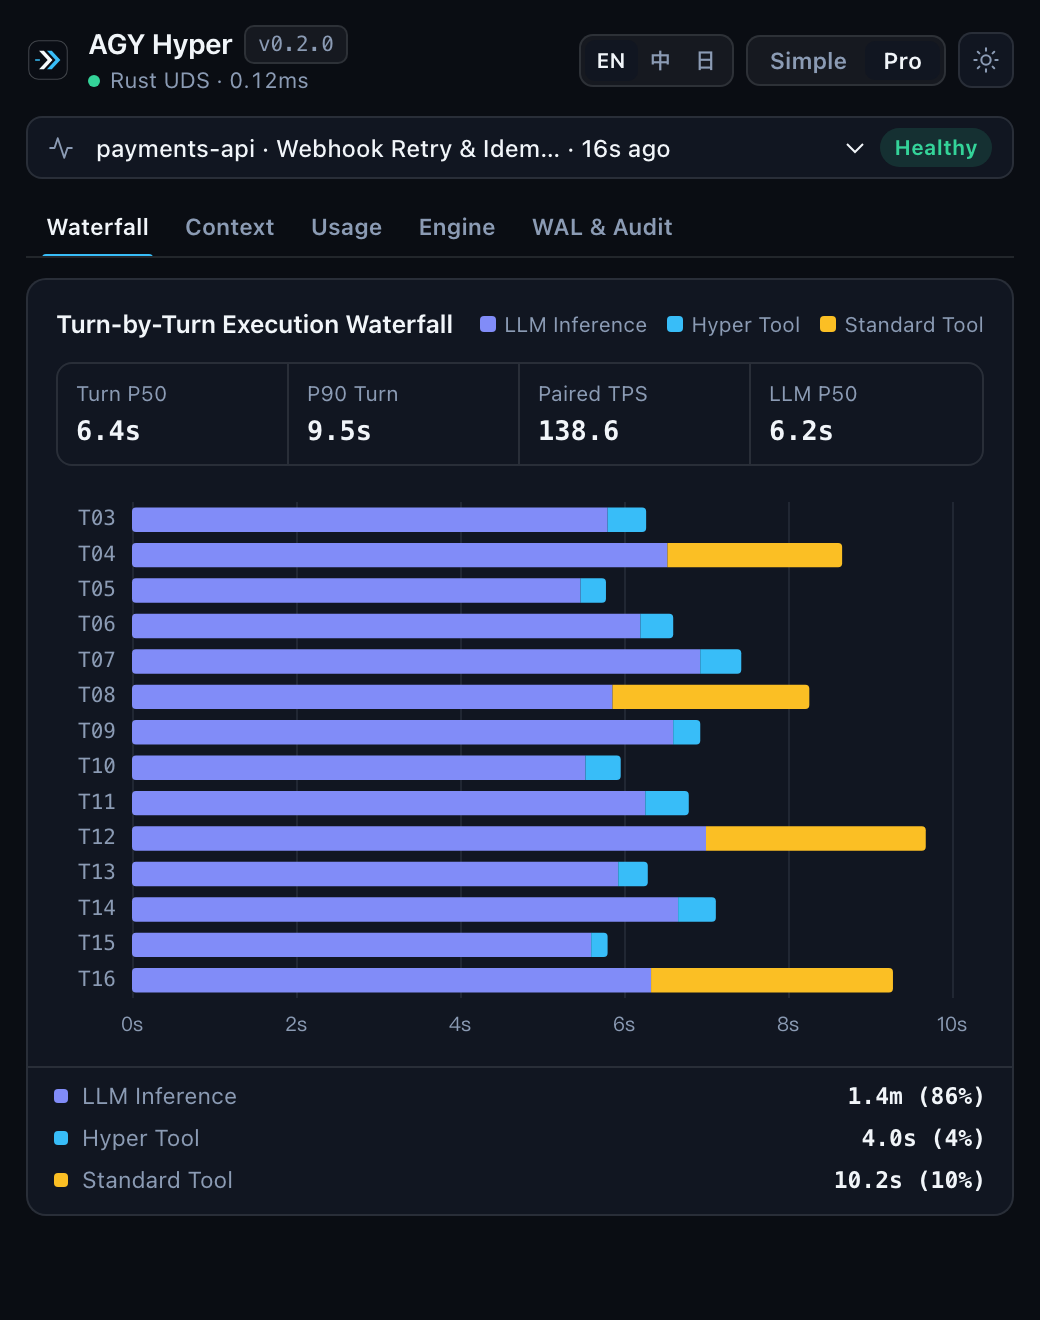
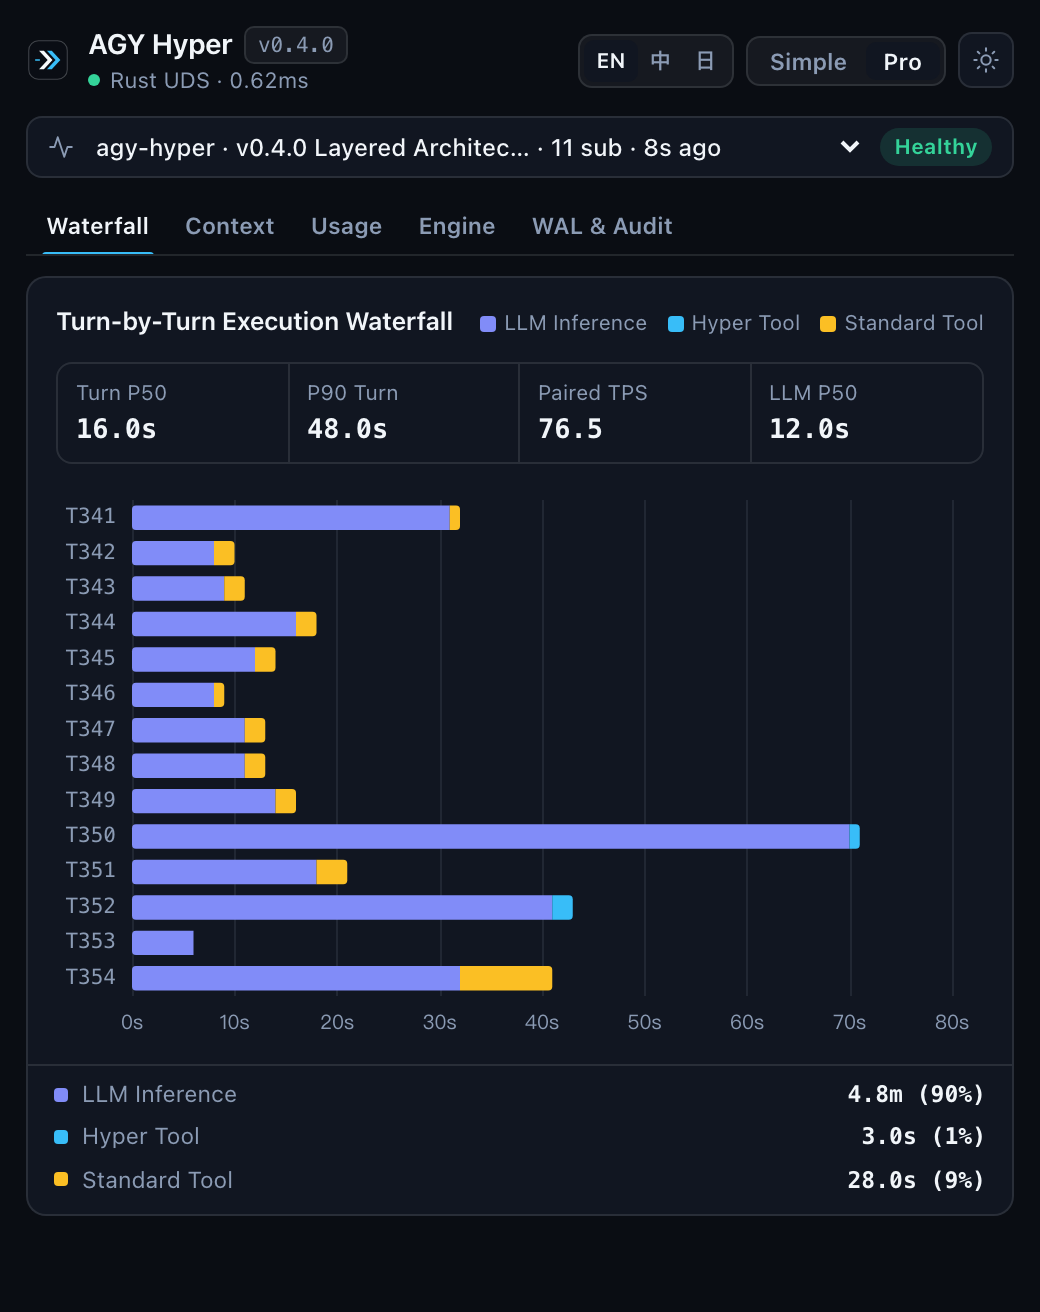
release: v0.4.0 version bump, refreshed diagrams, screenshots, and bilingual docs

diff --git a/README.zh-CN.md b/README.zh-CN.md
@@ -52,12 +52,12 @@
 不需要装 Rust，不需要装 `ripgrep` 或 Python，也不依赖本地 `git` 命令行。安装脚本强制通过 **SHA-256 校验** 后原子替换，绝不修改你的 `~/.gemini/config/config.json`。
 
 ```bash
-# macOS & Linux
+# macOS & Linux（默认 Balanced 模式；追加 `-s -- --observe` 可开启零侵入纯观测模式）
 curl -fsSL https://raw.githubusercontent.com/BobbyCats/agy-hyper/main/install.sh | bash
 ```
 
 ```powershell
-# Windows (PowerShell)
+# Windows (PowerShell；安装前设 `$env:AGY_HYPER_OBSERVE="1"` 可启零侵入纯观测模式)
 irm https://raw.githubusercontent.com/BobbyCats/agy-hyper/main/install.ps1 | iex
 ```
 
@@ -76,6 +76,7 @@ git clone https://github.com/BobbyCats/agy-hyper.git && cd agy-hyper && ./instal
 
 ```bash
 agy-hyper doctor                  # 检查 Tree-sitter 语法、gix、守护进程延迟与安全边界
+agy-hyper audit --svg audit.svg   # 运行 14 天本机烧钱诊断并导出可分享 SVG 战报卡
 agy-hyper usage --window 7d       # 查看近 24h / 7d / 30d / 90d Token 与多币种等价估值
 agy-hyper bench --cache-ttl       # 查看各模型族实测 Prompt 缓存衰减曲线与 TTL 拐点
 agy-hyper cli-setup               # 输出（或 --apply 写入）Antigravity CLI statusLine 与 title 配置
@@ -84,47 +85,62 @@ agy-hyper ui                      # 在浏览器独立打开 AGY Hyper Deck (127
 
 ---
 
+## 本机烧钱诊断战报卡（`agy-hyper audit`）
+
+运行 `agy-hyper audit --days 14 --svg audit-card.svg`，100% 本地离线扫描你自己的 Antigravity 历史日志（零云端上传），直接揪出各模型真实缓存掉崖时间、未命中输入成本、首次改代码前上下文膨胀与地毯式预读次数，并生成一张可直接分享的矢量 SVG 诊断卡：
+
+<div align="center">
+  <picture>
+    <source media="(prefers-color-scheme: dark)" srcset="./assets/audit-card-dark.svg">
+    <source media="(prefers-color-scheme: light)" srcset="./assets/audit-card-light.svg">
+    <img src="./assets/audit-card-dark.svg" alt="AGY Hyper 本机遥测诊断战报卡" width="100%"/>
+  </picture>
+</div>
+
+---
+
 ## AGY Hyper Deck（Antigravity 原生侧边栏驾驶舱）
 
 通过官方 `SIDECAR_UI_ENTRYPOINT_AUX_PANE` 协议原生嵌入右侧边栏，100% 本地离线内置 **Apache ECharts 6** 与 **i18next**（`English / 简体中文 / 日本語`，零外网 CDN），自动同步宿主明暗主题。
 
-- **简洁模式**面向日常使用：展示上下文水位、单轮 P50、本步与会话累计缓存命中、**子代理树状态条**（高亮运行中红线与静默 `>=90s` 的 `STALLED` 卡死子代理）、**本会话/整树等价估值缎带**（支持一键切货币）、**分模型自适应缓存保鲜条**（实测/默认 TTL 徽章、连续失败熔断预警、`/compact` 与跨模型切换提示）以及 WAL 一键撤回。
-- **极客模式**展开五大深度视图：**耗时瀑布**（LLM / Hyper / 普通工具严格拆分）、**上下文轨迹**（双轴堆叠面积曲线 + **上下文 X-Ray 透视条**，拆分读文件/命令输出/Hyper 工具/思考回复并标注首次改动水位与地毯读次数）、**用量账本**（`24H / 7D / 30D / 90D` 增量统计 + 8 种货币 + 手动 **同步汇率**）、**引擎与缓存**、**回滚与审计**。
+- **分层零侵入架构**：支持先用 **纯观测（Observe）** 模式（只开侧边栏驾驶舱、烧钱诊断与被动 WAL 快照，完全不碰原生工具与 Diff 卡片），或切到 **安全稳健（Safe）**（开启打包读与同步校验，同时保留原生 `edit_file` 行内 Diff），也可以一键解锁 **均衡 / 狂暴** 全量 Rust MCP 加速，并在 **引擎** 页独立开关读/写/校验三个工具层。
+- **简洁模式**面向日常使用：展示上下文水位、单轮 P50、本步与会话累计缓存命中、**子代理树状态条**（高亮运行中红线与静默 `>=90s` 的 `STALLED` 卡死子代理）、**本会话/整树等价估值缎带**（支持一键切货币）、**分模型自适应缓存保鲜条**（实测/默认 TTL 徽章与连续失败熔断预警）、四档分层模式切换，以及 **WAL 行级 Unified Diff 内联审阅 + 一键撤回**。
+- **极客模式**展开五大深度视图：**耗时瀑布**（LLM / Hyper / 普通工具严格拆分）、**上下文轨迹**（双轴堆叠面积曲线 + **上下文 X-Ray 透视条**，拆分读文件/命令输出/Hyper 工具/思考回复并标注首次改动水位与地毯读次数）、**用量账本**（`24H / 7D / 30D / 90D` 增量统计 + 8 种货币 + 手动 **同步汇率** + **本机烧钱诊断与 TTL 断崖** 及一键导出 `.svg` 战报卡）、**引擎与缓存**（AST/打包命中 + 细粒度 MCP 开关）、**回滚与审计**。
 
 <div align="center">
 <table>
   <tr>
     <td align="center" width="50%">
-      <strong>简洁模式 · 子代理树、水位与一键撤回（深色）</strong><br/>
-      <sub>子代理隔离监控 · 自适应实测缓存条 · 整树估值缎带 · WAL 原子撤回</sub><br/><br/>
+      <strong>简洁模式 · 实测 TTL、四档模式与行级 WAL Diff（深色）</strong><br/>
+      <sub>~180s 实测缓存保鲜 · Observe/Safe/Balanced/Hyper · 展开红绿 Diff 与一键撤回</sub><br/><br/>
       <img src="./assets/cockpit-simple-dark.png" alt="AGY Hyper Deck 简洁模式深色" width="100%"/>
     </td>
     <td align="center" width="50%">
-      <strong>简洁模式 · 已压缩态与引擎接管（浅色 · 中文）</strong><br/>
-      <sub>/compact 完成态确认 · Hyper 接管占比 · 原生 i18next 多语言</sub><br/><br/>
+      <strong>简洁模式 · 浅色主题与改动行数标记（浅色）</strong><br/>
+      <sub>自适应宿主浅色主题 · 实测 TTL 徽章 · 原生 i18next 三语切换</sub><br/><br/>
       <img src="./assets/cockpit-simple-light.png" alt="AGY Hyper Deck 简洁模式浅色" width="100%"/>
     </td>
   </tr>
   <tr>
     <td align="center" width="50%">
-      <strong>极客模式 · 24H–90D 多币种用量账本（深色 · 中文）</strong><br/>
-      <sub>本地增量账本 · 8 种货币 · 缓存节省测算 · 手动同步实时汇率</sub><br/><br/>
-      <img src="./assets/cockpit-usage-dark.png" alt="AGY Hyper Deck 用量账本" width="100%"/>
+      <strong>极客模式 · 用量账本、烧钱诊断与模型 TTL 断崖</strong><br/>
+      <sub>多币种本地账本 · 实测断崖胶囊 · 核心发现 · 一键导出 SVG 战报卡</sub><br/><br/>
+      <img src="./assets/cockpit-usage-dark.png" alt="AGY Hyper Deck 用量账本与诊断" width="100%"/>
     </td>
     <td align="center" width="50%">
-      <strong>极客模式 · 逐轮耗时火焰图（深色）</strong><br/>
-      <sub>严格拆分模型推理 / Hyper / 普通工具耗时 · P50 / P90 · 配对 TPS</sub><br/><br/>
-      <img src="./assets/cockpit-pro-dark.png" alt="AGY Hyper Deck 极客瀑布图" width="100%"/>
+      <strong>极客模式 · 双轴上下文曲线与上下文 X-Ray 透视</strong><br/>
+      <sub>命中率双轴轨迹 · 压缩后窗口成分拆解 · 首改水位与地毯读计数</sub><br/><br/>
+      <img src="./assets/cockpit-context-dark.png" alt="AGY Hyper Deck 上下文 X-Ray" width="100%"/>
     </td>
   </tr>
 </table>
 </div>
 
 <details>
-<summary><strong>更多视图：极客模式 · 双轴上下文与缓存命中曲线</strong></summary>
+<summary><strong>更多视图：极客模式 · 逐轮耗时火焰图</strong></summary>
 <br/>
 <div align="center">
-  <img src="./assets/cockpit-context-dark.png" alt="AGY Hyper Deck 上下文曲线" width="520"/>
+  <img src="./assets/cockpit-pro-dark.png" alt="AGY Hyper Deck 极客瀑布图" width="520"/>
 </div>
 </details>
 
@@ -199,14 +215,17 @@ Apple Silicon 实机 Release（LTO 优化）通过 `./bench/run-bench.sh` 实测
 agy-hyper doctor                                # 全链路 Tree-sitter、gix、守护进程与安全体检
 agy-hyper daemon start|stop|status              # 管理本地共享 Rust 守护进程
 agy-hyper ui [--port 47821]                     # 在浏览器独立打开 AGY Hyper Deck
+agy-hyper audit [--days 14] [--sessions 80] [--svg card.svg] [--theme dark|light] [--json]
 agy-hyper usage [--window 24h|7d|30d|90d] [--currency CNY] [--json]
 agy-hyper bench [--sessions 10] [--svg waterfall.svg] [--cache-ttl] [--json]
 agy-hyper statusline [--format compact|rich|json] [--title] [--no-color]
 agy-hyper cli-setup [--apply] [--format compact|rich]  # 打印或显式写入 Antigravity CLI 状态栏与标题配置
 agy-hyper tx list                               # 查看 BLAKE3 WAL 修改账本
+agy-hyper tx diff <tx_id> [--json]              # 查看任意 WAL 事务的行级 Unified Diff
 agy-hyper tx rollback <tx_id> [--force]         # 原子恢复文件到修改前字节状态
 agy-hyper config show                           # 查看当前生效配置
-agy-hyper config profile safe|balanced|hyper    # 切换安全与后台预热策略
+agy-hyper config profile observe|safe|balanced|hyper    # 切换分层观测 / 加速模式
+agy-hyper config toggle enable_mcp_read|enable_mcp_edit|enable_mcp_check true|false
 agy-hyper config currency USD|CNY|JPY|EUR|GBP|HKD|SGD|KRW
 agy-hyper config fx <货币代码> <对美元汇率>       # 自定义本地离线汇率
 ```

diff --git a/README.md b/README.md
@@ -52,12 +52,12 @@ Even if you never touch systems programming, three everyday comparisons tell the
 No Rust toolchain, no `ripgrep`, no Python, no `git` CLI required. Release archives are **SHA-256 verified** before atomic swap and never touch `~/.gemini/config/config.json`.
 
 ```bash
-# macOS & Linux
+# macOS & Linux (default Balanced mode; add `-s -- --observe` for zero-intrusion cockpit only)
 curl -fsSL https://raw.githubusercontent.com/BobbyCats/agy-hyper/main/install.sh | bash
 ```
 
 ```powershell
-# Windows (PowerShell)
+# Windows (PowerShell; set `$env:AGY_HYPER_OBSERVE="1"` before install for Observe-only mode)
 irm https://raw.githubusercontent.com/BobbyCats/agy-hyper/main/install.ps1 | iex
 ```
 
@@ -76,6 +76,7 @@ Switch back to Antigravity and everything activates automatically. You can also 
 
 ```bash
 agy-hyper doctor                  # verify Tree-sitter grammars, gix, daemon RTT & security posture
+agy-hyper audit --svg audit.svg   # run 14d local burn audit & export a shareable SVG diagnostic card
 agy-hyper usage --window 7d       # view 24h / 7d / 30d / 90d tokens & API-equivalent value
 agy-hyper bench --cache-ttl       # inspect empirical per-model prompt-cache TTL decay curves
 agy-hyper cli-setup               # print (or --apply) Antigravity CLI statusLine & title config
@@ -84,47 +85,62 @@ agy-hyper ui                      # launch AGY Hyper Deck standalone at http://1
 
 ---
 
+## Local Burn Audit Card (`agy-hyper audit`)
+
+Run `agy-hyper audit --days 14 --svg audit-card.svg` to audit your own Antigravity transcripts 100% locally (zero cloud uploads). It surfaces empirical per-model cache TTL cliffs, uncached input spend, pre-edit context bloat, blanket-read turns, and an unadjusted local cohort view in a crisp shareable SVG card:
+
+<div align="center">
+  <picture>
+    <source media="(prefers-color-scheme: dark)" srcset="./assets/audit-card-dark.svg">
+    <source media="(prefers-color-scheme: light)" srcset="./assets/audit-card-light.svg">
+    <img src="./assets/audit-card-dark.svg" alt="AGY Hyper Local Telemetry Burn Audit Card" width="100%"/>
+  </picture>
+</div>
+
+---
+
 ## AGY Hyper Deck (Native Sidecar Cockpit)
 
 Docked directly in Antigravity's auxiliary pane via `SIDECAR_UI_ENTRYPOINT_AUX_PANE`, powered 100% offline by **Apache ECharts 6** and **i18next** (`English / 简体中文 / 日本語`, zero CDN). Luminance-synced with your host Light/Dark theme.
 
-- **Simple Mode** keeps daily essentials front and center: context level, Turn P50, step vs. session cache hit rate, linked subagent tree strip (highlighting active redlines and `STALLED` subagents silent `>=90s`), session/tree usage ribbon with quick currency switch, **auto-calibrated per-model cache warmth bar** (empirical vs. default TTL badge, loop-guard alerts, post-`/compact` & cross-model hints), safety profile, and 1-click WAL Undo.
-- **Pro Mode** opens five deep telemetry tabs: **Waterfall** (disjoint LLM vs. Hyper vs. Standard spans), **Context** (dual-axis cached/uncached curve + **Context X-Ray** composition bar with first-edit token load and blanket-read count), **Usage** (`24H / 7D / 30D / 90D` incremental ledger across 8 currencies with manual **Sync FX**), **Engine** (AST/pack cache hits & live switches), and **WAL & Audit**.
+- **Layered Zero-Intrusion Design**: start in **Observe** mode (read-only cockpit + burn audit + passive WAL capture; native tools & diff cards untouched), switch to **Safe** (bundled reads & preset checks while keeping native `edit_file` inline diffs), or unlock **Balanced / Hyper** full Rust MCP acceleration — plus granular per-tool toggles (`MCP Read`, `MCP Edit`, `MCP Check`) under **Engine**.
+- **Simple Mode** keeps daily essentials front and center: context level, Turn P50, step vs. session cache hit rate, linked subagent tree strip (highlighting active redlines and `STALLED` subagents silent `>=90s`), session/tree usage ribbon with quick currency switch, **auto-calibrated per-model cache warmth bar** (empirical vs. default TTL badge & loop-guard alerts), 4-mode layered profile switch, and **inline WAL Unified Diff preview + 1-click Undo**.
+- **Pro Mode** opens five deep telemetry tabs: **Waterfall** (disjoint LLM vs. Hyper vs. Standard spans), **Context** (dual-axis cached/uncached curve + **Context X-Ray** composition bar with first-edit token load and blanket-read count), **Usage** (`24H / 7D / 30D / 90D` incremental ledger across 8 currencies, manual **Sync FX**, plus **Local Burn Audit & TTL Cliffs** with 1-click `.svg` card export), **Engine** (AST/pack cache hits & granular MCP layer switches), and **WAL & Audit**.
 
 <div align="center">
 <table>
   <tr>
     <td align="center" width="50%">
-      <strong>Simple · Subagent Tree, Context &amp; Instant Undo (Dark)</strong><br/>
-      <sub>Linked subagents · Auto-calibrated cache bar · Tree value ribbon · 1-click WAL Undo</sub><br/><br/>
+      <strong>Simple · Empirical TTL, 4-Mode Switch &amp; Inline WAL Diff (Dark)</strong><br/>
+      <sub>~180s empirical TTL · Observe/Safe/Balanced/Hyper · Expandable Unified Diff &amp; 1-click Undo</sub><br/><br/>
       <img src="./assets/cockpit-simple-dark.png" alt="AGY Hyper Deck Simple Dark" width="100%"/>
     </td>
     <td align="center" width="50%">
-      <strong>Simple · Compacted State &amp; Engine Takeover (Light · 中文)</strong><br/>
-      <sub>Post-/compact confirmation · Hyper adoption · Native i18next</sub><br/><br/>
+      <strong>Simple · Clean Light Cockpit &amp; Delta Chips (Light)</strong><br/>
+      <sub>Luminance-synced light theme · Empirical warmth bar · Native i18next</sub><br/><br/>
       <img src="./assets/cockpit-simple-light.png" alt="AGY Hyper Deck Simple Light" width="100%"/>
     </td>
   </tr>
   <tr>
     <td align="center" width="50%">
-      <strong>Pro · 24H–90D Multi-Currency Usage Ledger (中文)</strong><br/>
-      <sub>Incremental local ledger · 8 currencies · Cache savings · Manual Sync FX</sub><br/><br/>
-      <img src="./assets/cockpit-usage-dark.png" alt="AGY Hyper Deck Usage Ledger" width="100%"/>
+      <strong>Pro · Usage Ledger, Burn Audit &amp; Model TTL Cliffs</strong><br/>
+      <sub>Multi-currency ledger · Empirical TTL pills · Top findings · 1-click Export Card (.svg)</sub><br/><br/>
+      <img src="./assets/cockpit-usage-dark.png" alt="AGY Hyper Deck Usage Ledger and Burn Audit" width="100%"/>
     </td>
     <td align="center" width="50%">
-      <strong>Pro · Turn Execution Waterfall (Dark)</strong><br/>
-      <sub>Disjoint LLM vs Hyper vs Standard tool spans · P50 / P90 · Paired TPS</sub><br/><br/>
-      <img src="./assets/cockpit-pro-dark.png" alt="AGY Hyper Deck Pro Waterfall" width="100%"/>
+      <strong>Pro · Context Efficiency &amp; Context X-Ray Composition</strong><br/>
+      <sub>Dual-axis cached/uncached curve · Post-compact X-Ray · 1st-edit load &amp; blanket-read count</sub><br/><br/>
+      <img src="./assets/cockpit-context-dark.png" alt="AGY Hyper Deck Context X-Ray" width="100%"/>
     </td>
   </tr>
 </table>
 </div>
 
 <details>
-<summary><strong>More Views: Pro Dual-Axis Context &amp; Cache Efficiency Curve</strong></summary>
+<summary><strong>More Views: Pro Turn-by-Turn Execution Waterfall</strong></summary>
 <br/>
 <div align="center">
-  <img src="./assets/cockpit-context-dark.png" alt="AGY Hyper Deck Pro Context Curve" width="520"/>
+  <img src="./assets/cockpit-pro-dark.png" alt="AGY Hyper Deck Pro Waterfall" width="520"/>
 </div>
 </details>
 
@@ -199,14 +215,17 @@ Reproduce on your own repository:
 agy-hyper doctor                                # Tree-sitter, gix, daemon RTT & security self-check
 agy-hyper daemon start|stop|status              # Manage the shared local Rust daemon
 agy-hyper ui [--port 47821]                     # Launch AGY Hyper Deck standalone in browser
+agy-hyper audit [--days 14] [--sessions 80] [--svg card.svg] [--theme dark|light] [--json]
 agy-hyper usage [--window 24h|7d|30d|90d] [--currency CNY] [--json]
 agy-hyper bench [--sessions 10] [--svg waterfall.svg] [--cache-ttl] [--json]
 agy-hyper statusline [--format compact|rich|json] [--title] [--no-color]
 agy-hyper cli-setup [--apply] [--format compact|rich]  # Print or opt-in apply Antigravity CLI statusLine & title config
 agy-hyper tx list                               # Inspect BLAKE3 WAL transaction ledger
+agy-hyper tx diff <tx_id> [--json]              # Print line-level Unified Diff for any WAL transaction
 agy-hyper tx rollback <tx_id> [--force]         # Atomically restore files to pre-edit bytes
 agy-hyper config show                           # Print active configuration
-agy-hyper config profile safe|balanced|hyper    # Switch safety & pre-warm mode
+agy-hyper config profile observe|safe|balanced|hyper    # Switch layered cockpit / MCP acceleration mode
+agy-hyper config toggle enable_mcp_read|enable_mcp_edit|enable_mcp_check true|false
 agy-hyper config currency USD|CNY|JPY|EUR|GBP|HKD|SGD|KRW
 agy-hyper config fx <CODE> <RATE_PER_USD>       # Set custom offline FX override
 ```

diff --git a/SKILL.md b/SKILL.md
@@ -62,18 +62,23 @@ agy-hyper daemon status
 agy-hyper daemon start
 agy-hyper daemon stop
 
+# Local burn audit & shareable SVG diagnostic card
+agy-hyper audit --days 14 --svg audit-card.svg
+
 # Usage & multi-currency API-equivalent cost ledger (24h | 7d | 30d | 90d)
 agy-hyper usage --window 7d
 agy-hyper usage --window 30d --currency CNY
 
-# Safety profile & currency configuration
+# Layered profile & granular MCP switches (observe = cockpit-only zero-intrusion)
 agy-hyper config show
-agy-hyper config profile safe|balanced|hyper
+agy-hyper config profile observe|safe|balanced|hyper
+agy-hyper config toggle enable_mcp_edit false
 agy-hyper config currency USD|CNY|JPY|EUR|GBP|HKD|SGD|KRW
 agy-hyper config fx CNY 7.25
 
-# WAL undo ledger & atomic rollback
+# WAL undo ledger, inline Unified Diff & atomic rollback
 agy-hyper tx list
+agy-hyper tx diff <tx_id>
 agy-hyper tx rollback <tx_id>
 
 # Waterfall latency benchmark, empirical per-model cache TTL radar & standalone cockpit
